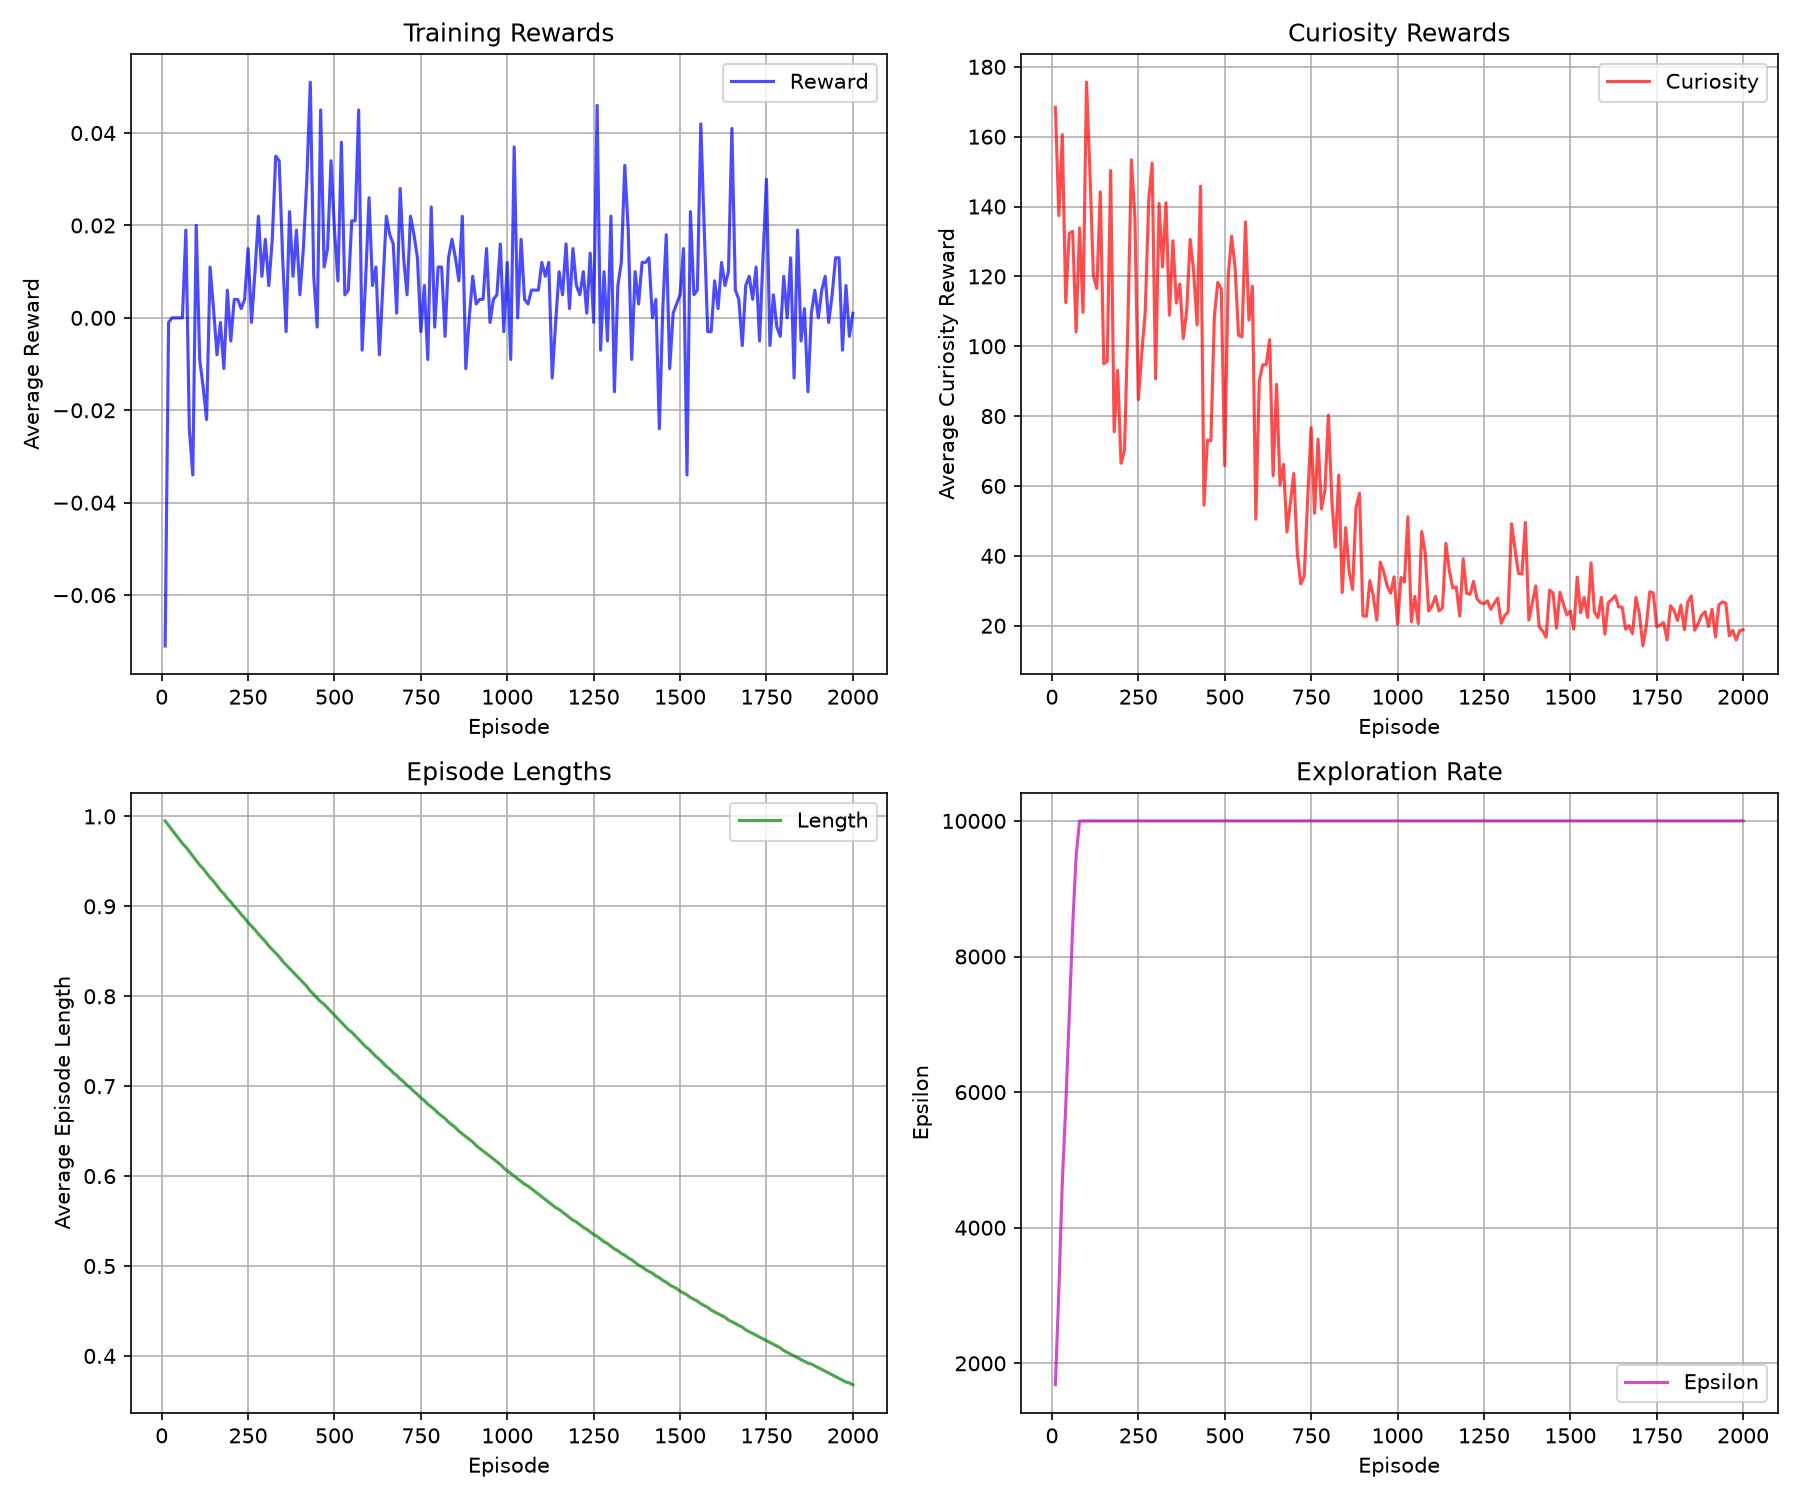
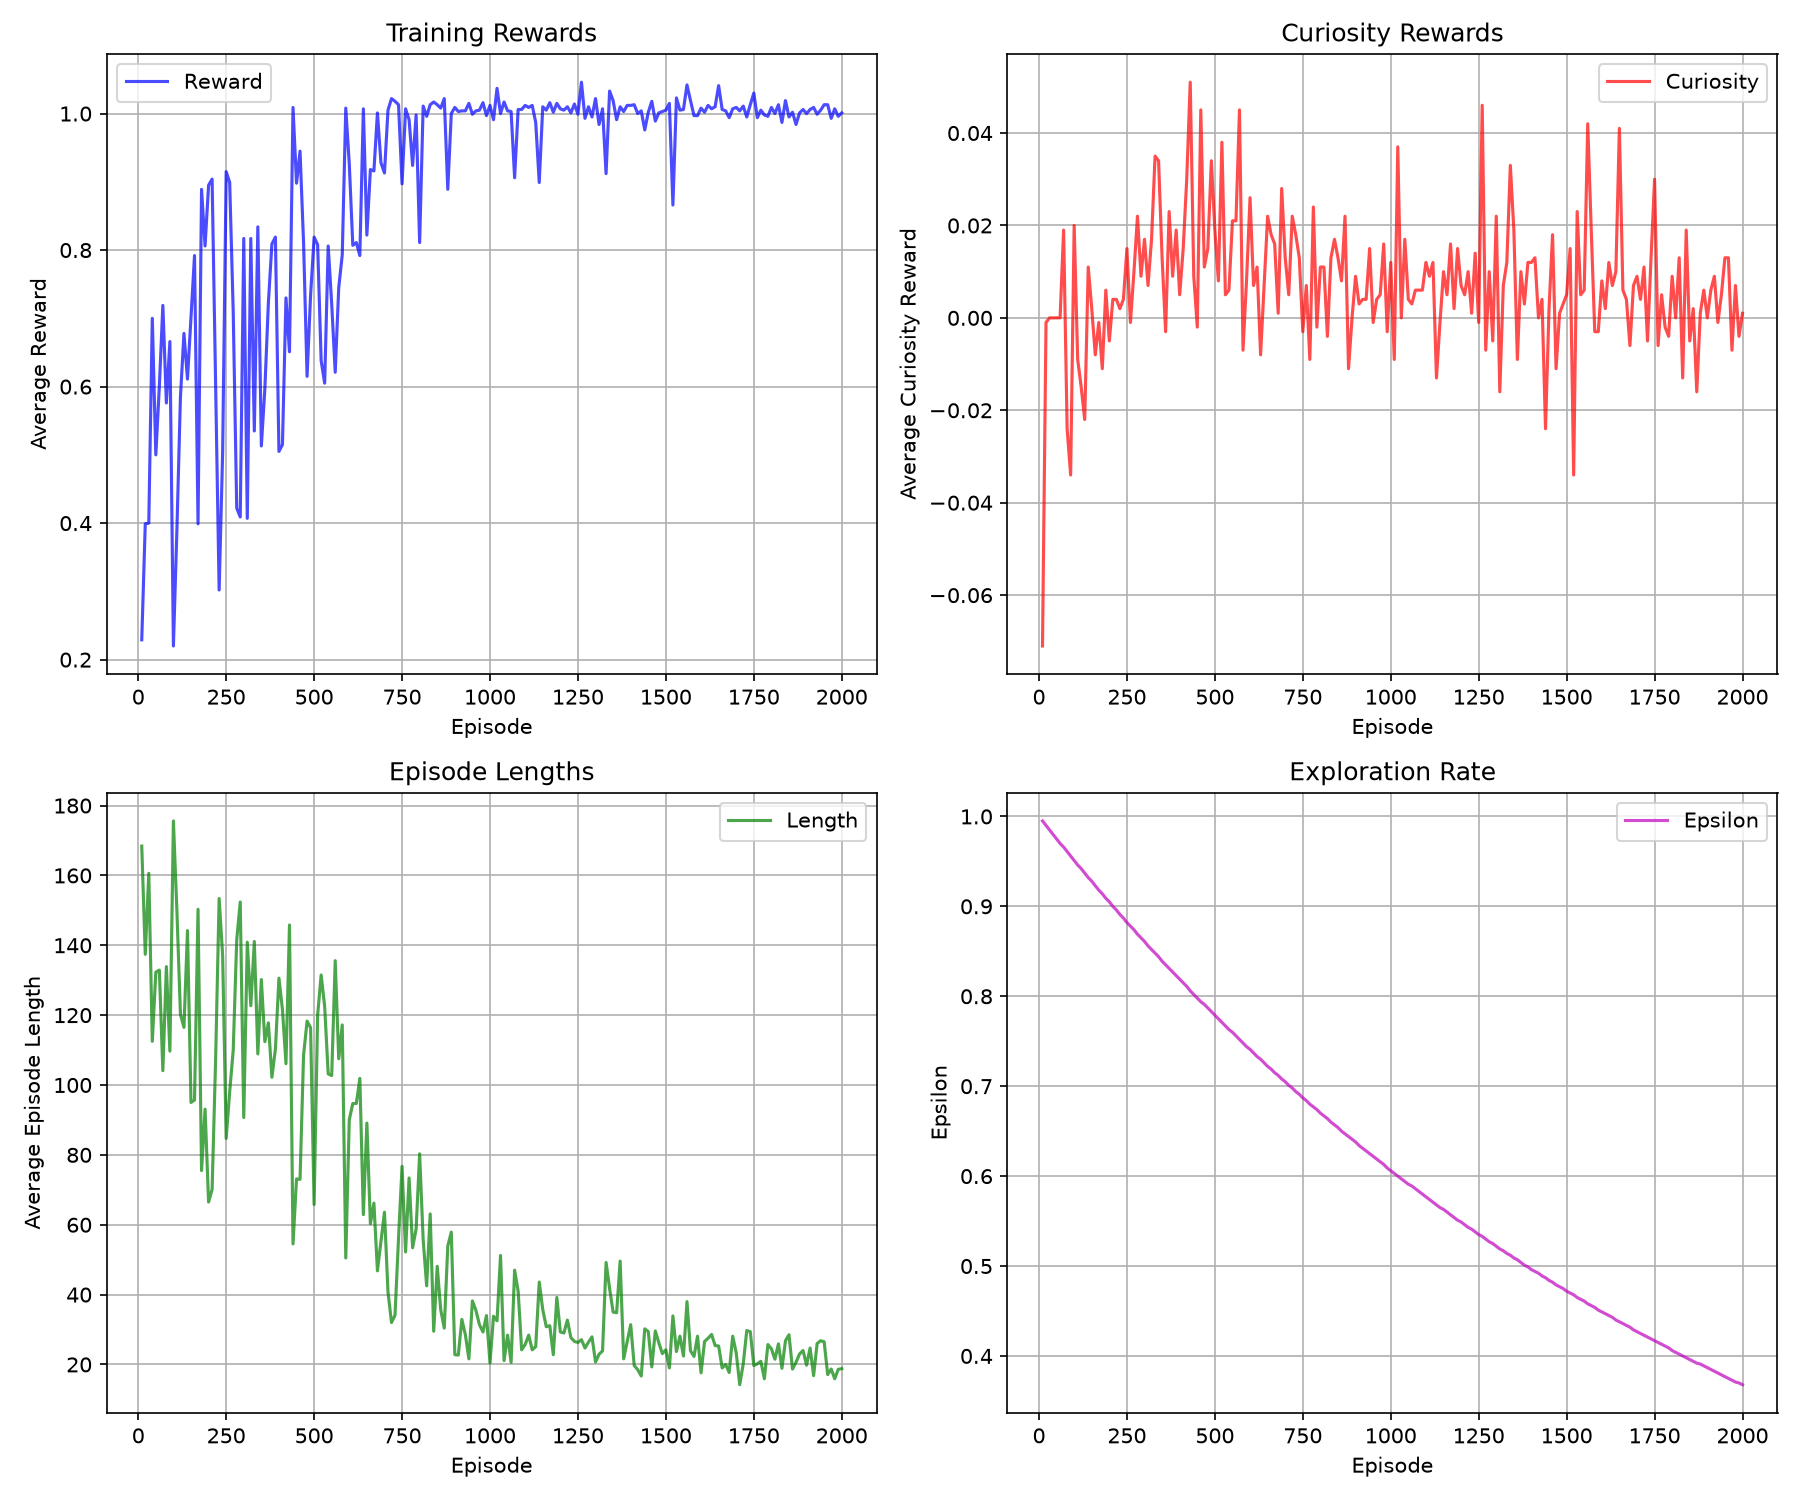
fix: changed the plotting strategy based on a modified regex script

diff --git a/scripts/visualize.py b/scripts/visualize.py
@@ -9,6 +9,7 @@ This script provides visualization tools for the curious agent:
 
 import argparse
 import logging
+import re
 import sys
 from pathlib import Path
 from typing import Dict, List, Optional
@@ -30,6 +31,14 @@ logging.basicConfig(
     format="%(asctime)s - %(name)s - %(levelname)s - %(message)s",
 )
 logger = logging.getLogger(__name__)
+
+TRAINING_METRIC_PATTERN = re.compile(
+    r"Episode (?P<episode>\d+)/\d+: "
+    r"Avg Reward=(?P<reward>[-+]?\d*\.?\d+), "
+    r"Avg Curiosity=(?P<curiosity>[-+]?\d*\.?\d+), "
+    r"Avg Length=(?P<length>[-+]?\d*\.?\d+), "
+    r"Epsilon=(?P<epsilon>[-+]?\d*\.?\d+)"
+)
 
 
 def load_config(config_path: str) -> dict:
@@ -203,20 +212,15 @@ def plot_training_curves(log_file: str) -> None:
 
     with log_path.open("r", encoding="utf-8") as f:
         for line in f:
-            if "Episode" in line and "Avg Reward" in line:
-                # Parse line
-                parts = line.split(", ")
-                episode = int(parts[0].split("/")[0].split()[-1])
-                reward = float(parts[1].split("=")[1])
-                curiosity = float(parts[2].split("=")[1])
-                length = float(parts[3].split("=")[1])
-                epsilon = float(parts[4].split("=")[1])
-                
-                episodes.append(episode)
-                rewards.append(reward)
-                curiosities.append(curiosity)
-                lengths.append(length)
-                epsilons.append(epsilon)
+            match = TRAINING_METRIC_PATTERN.search(line)
+            if match is None:
+                continue
+
+            episodes.append(int(match.group("episode")))
+            rewards.append(float(match.group("reward")))
+            curiosities.append(float(match.group("curiosity")))
+            lengths.append(float(match.group("length")))
+            epsilons.append(float(match.group("epsilon")))
     
     if not episodes:
         logger.warning(

diff --git a/tests/test_visualize.py b/tests/test_visualize.py
@@ -1,0 +1,21 @@
+"""Tests for training-log visualization."""
+
+from scripts.visualize import TRAINING_METRIC_PATTERN
+
+
+def test_training_metric_parser_maps_each_series_correctly():
+    """Logger prefixes must not shift reward, curiosity, length, or epsilon."""
+    line = (
+        "2026-07-28 10:04:27,392 - scripts.train_dqn - INFO - "
+        "Episode 10/2000: Avg Reward=0.229, Avg Curiosity=-0.071, "
+        "Avg Length=168.4, Epsilon=0.995, Buffer Size=1684"
+    )
+
+    match = TRAINING_METRIC_PATTERN.search(line)
+
+    assert match is not None
+    assert int(match.group("episode")) == 10
+    assert float(match.group("reward")) == 0.229
+    assert float(match.group("curiosity")) == -0.071
+    assert float(match.group("length")) == 168.4
+    assert float(match.group("epsilon")) == 0.995
